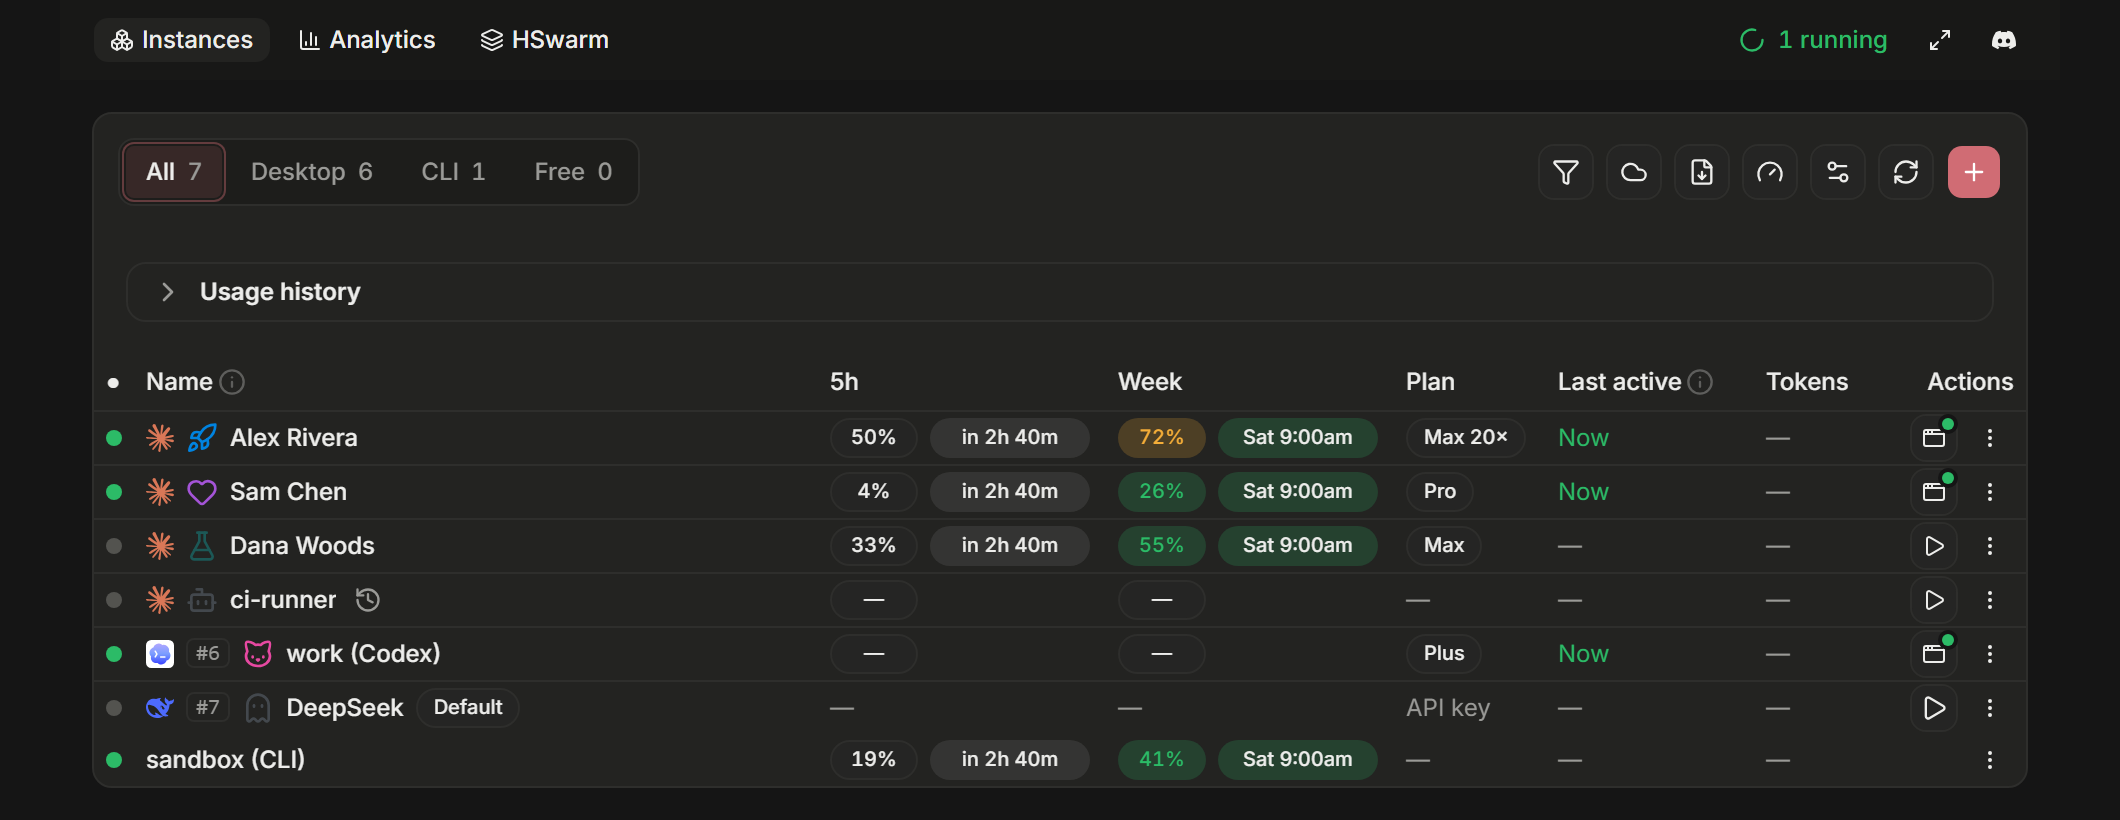
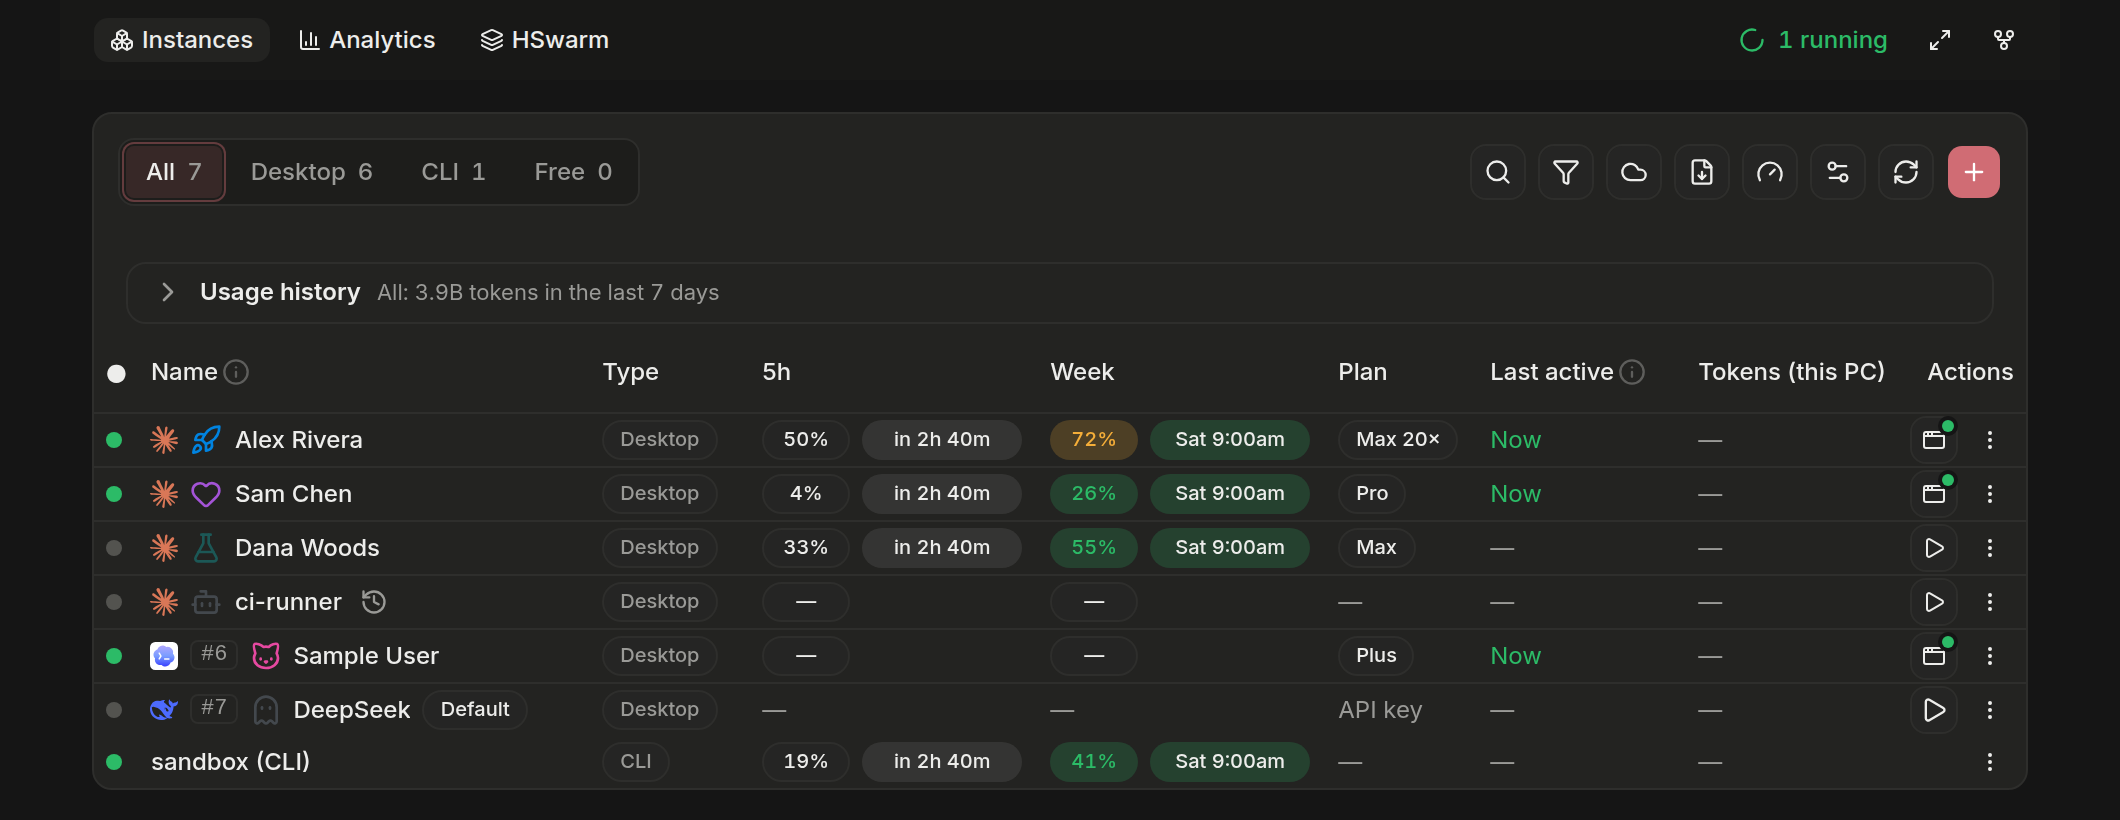
Docs: refresh four README screenshots from synthetic Community UI

diff --git a/README.md b/README.md
@@ -43,8 +43,7 @@ Maintained independently by [@Jhacarreiro](https://github.com/Jhacarreiro) and c
 
 ![The window: the sidebar lists every chat grouped by project, and the open chat shows its to-dos and a permission prompt](.github/screenshots/window.png)
 
-<sub>Screenshots use demo data and predate the fork: the analytics and instances shots still show a Discord button
-where the repository link now is, and the window shots name a demo project "connections".</sub>
+<sub>All screenshots use synthetic demo data, captured from the current Community UI. No personal sessions or accounts are included.</sub>
 
 ## TL;DR
 
